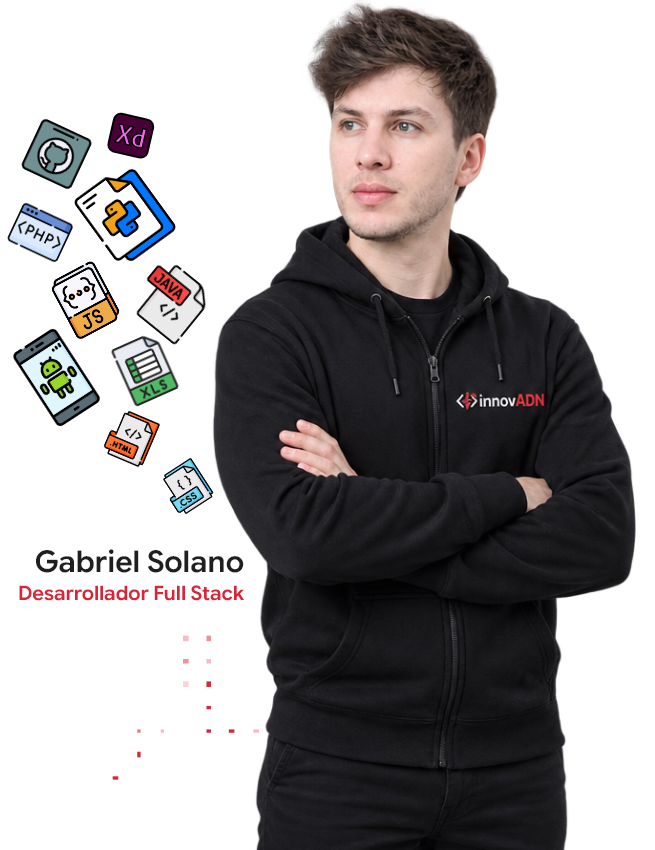
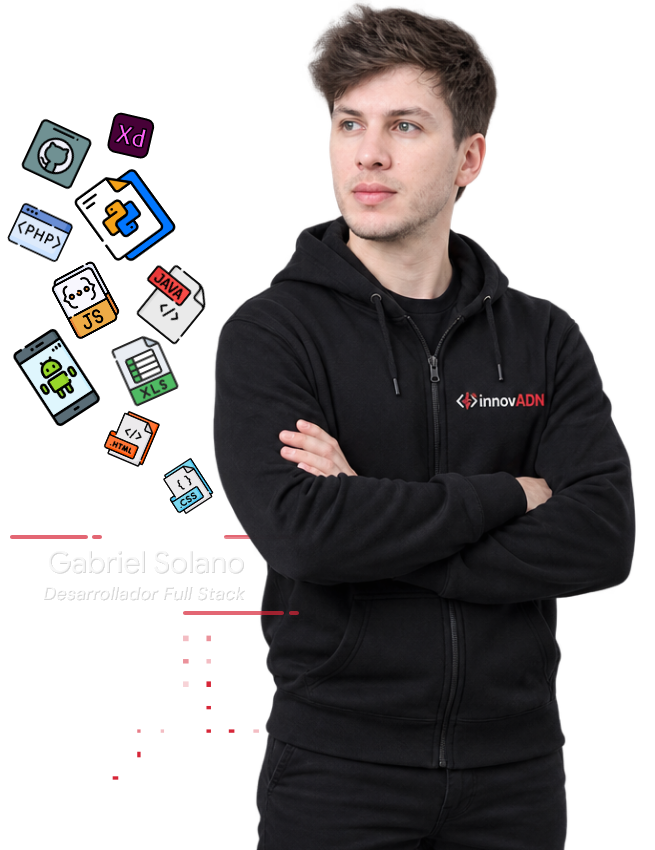
update

Changed region(s): [[0.0305, 0.6118, 0.458, 0.7341]]

diff --git a/index.html b/index.html
@@ -142,6 +142,17 @@
           <h3>Automatización de procesos</h3>
           <p>Automatizamos tareas repetitivas para que ganes tiempo y reduzcas errores manuales.</p>
         </article>
+
+        <article class="service-card">
+          <span class="service-icon" aria-hidden="true">
+            <svg viewBox="0 0 24 24" width="22" height="22" fill="none" stroke="currentColor" stroke-width="1.5">
+              <path d="M4 12a8 8 0 0 1 14-5"/><path d="M20 12a8 8 0 0 1-14 5"/>
+              <path d="M18 3v4h-4M6 21v-4h4"/>
+            </svg>
+          </span>
+          <h3>Actualización y mantenimiento</h3>
+          <p>Mantenemos y evolucionamos tus herramientas útiles, seguras y compatibles con nuevas necesidades.</p>
+        </article>
       </div>
     </div>
   </section>
